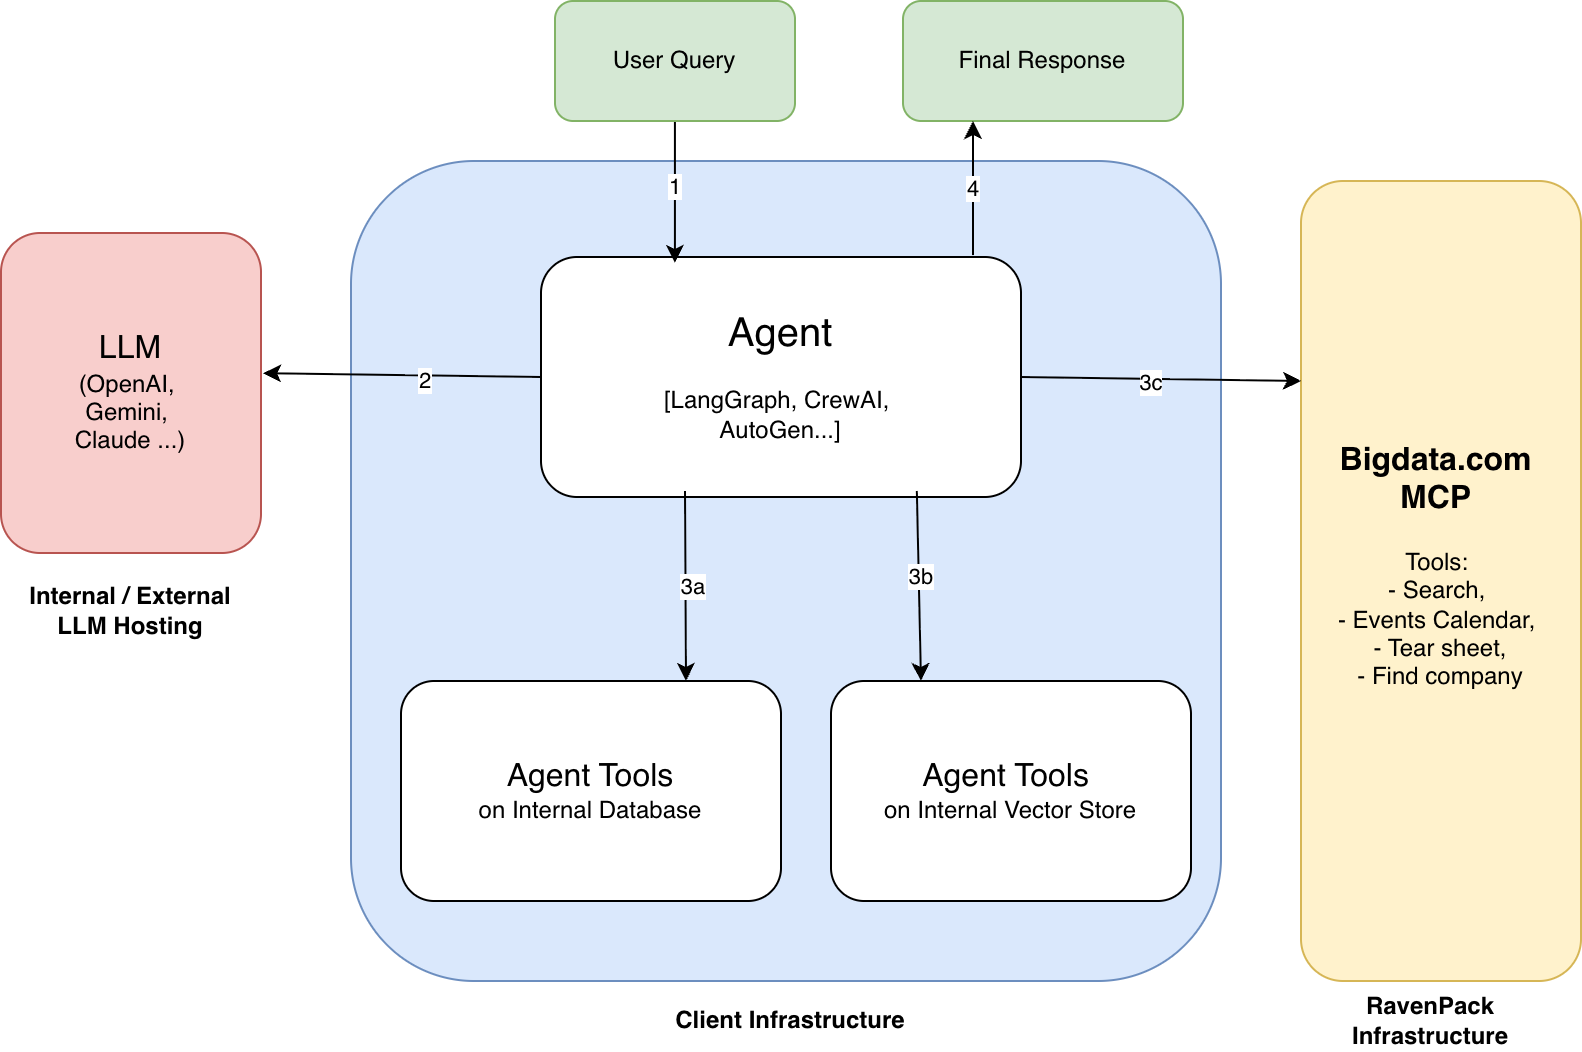
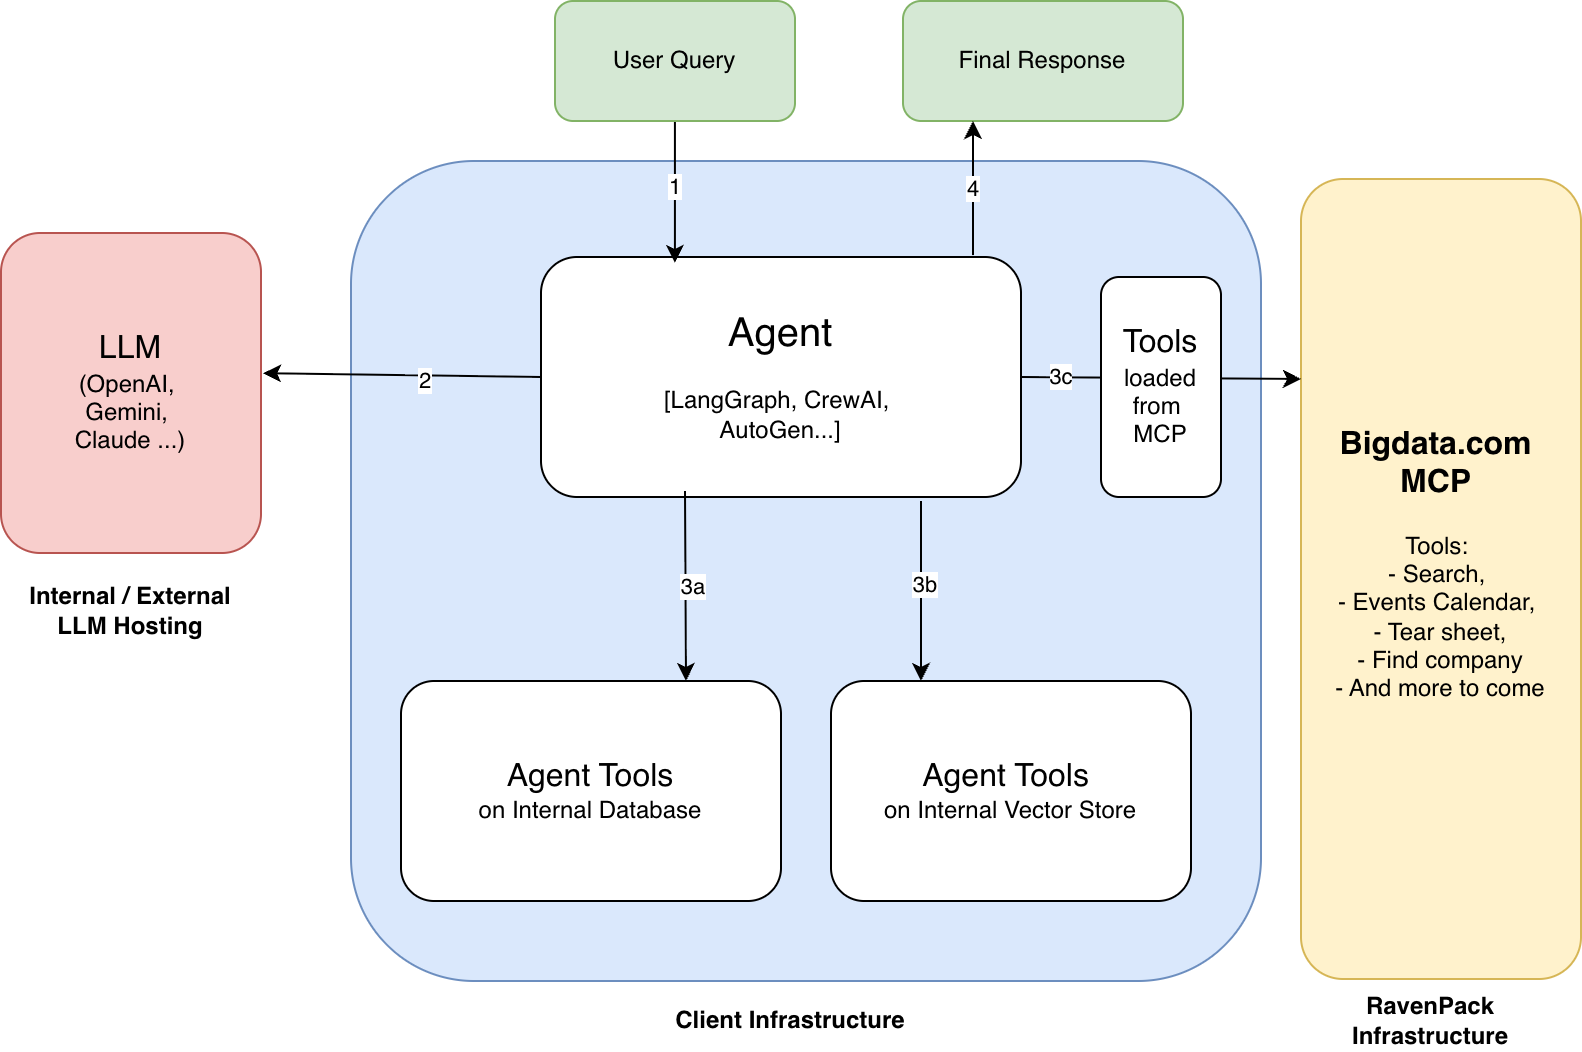
Updated documentation with production ready context

diff --git a/Agent_To_BigData/langgraph_core.py b/Agent_To_BigData/langgraph_core.py
@@ -707,6 +707,8 @@ def get_research_agent_tool() -> List[Callable]:
     Uses ResearchClient from research_client.py (retries, stream timeout,
     citation numbering). Used by agent_to_research_agent notebooks.
 
+    **Note:** It uses "lite" effort (10-20s) for faster responses, can be changed to "standard" for deeper research.
+
     Returns:
         List of one @tool-decorated callable (bigdata_research_agent).
     """
